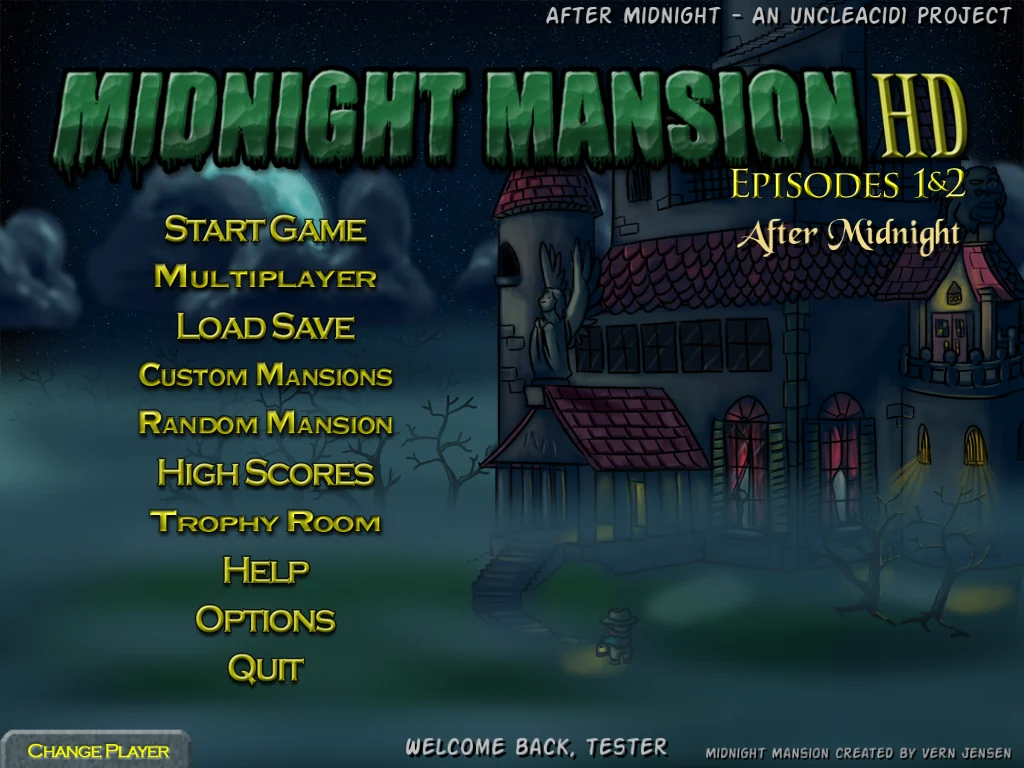
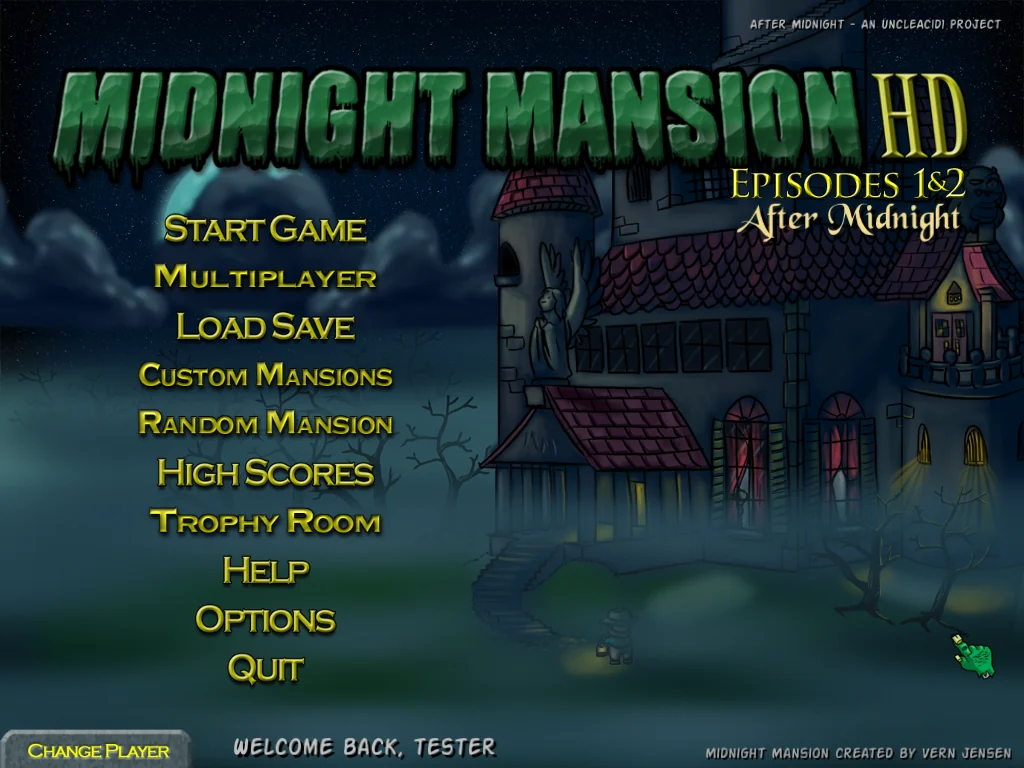
Title screen layout; birds in front of the moon
Title screen: "Welcome back" sits beside the Change Player tab (a long name shrinks rather
than run into the credit in the other corner); the After Midnight subtitle is closer under
Episodes 1&2; the corner credit is small and set in from the top right.

Multiplayer screen: the ravens fly in front of the moon (they were in the layer behind it),
and are never mistaken for the moon or the scenery when the screen is entered again.

README: the title screenshot and animation show the new layout.

Claude-Session: https://claude.ai/code/session_0121dJVHH3Rn4xL4fNu9r1rm

diff --git a/src/game/GameScreens.c b/src/game/GameScreens.c
@@ -668,11 +668,13 @@ void DrawTitleScreenBackgroundMM1(SWRect *rectP)
     SetBackgroundToDesignSize(spriteP);
 
     SetTextStyle(&style, "\012Action Man", 0, (short)(scale * 16.0f), 0);
+        // beside the Change Player tab (a long name gets smaller rather than run into the
+        // credit in the other corner)
     *rectP = gSpriteWorldP->workAreaRect;
     rectP->top = rectP->bottom - 30;
-    rectP->left = rectP->right - 515;
+    rectP->left += 290;
+    rectP->right -= (short)((rectP->right - rectP->left) * 0.42f);
     SWOffsetRect(rectP, 0, -16);
-    SWOffsetRect(rectP, -260, 0);      // where the registered build puts it
     if (gCurrentPlayerNameExists) {
         SWCopyPascalStringToCString((ConstStringPtr)gCurrentPlayerName, playerName);
         snprintf(message, sizeof(message), "Welcome back, %s", playerName);
@@ -682,11 +684,13 @@ void DrawTitleScreenBackgroundMM1(SWRect *rectP)
     }
 
         // (the original showed its version number here)
+        // small, in the top right corner, a little in from the edges
+    SetTextStyle(&style, "\012Action Man", 0, (short)(scale * 9.0f), 1);
     *rectP = gSpriteWorldP->workAreaRect;
+    rectP->right -= (short)(scale * 10.0f);
     rectP->left = rectP->right - (short)(scale * 300.0f);
-    rectP->right -= (short)(scale * 12.0f);
-    rectP->bottom = rectP->top + 30;
-    style.justification = 1;
+    rectP->top += (short)(scale * 8.0f);
+    rectP->bottom = rectP->top + (short)(scale * 10.0f);
     spriteP = MyDrawCTextJustified("After Midnight - An UncleAcid1 Project", &style, rectP, &gray);
     MakeTitleScreenSpriteFadeIn(spriteP);
 
@@ -705,7 +709,7 @@ static void TitleScreenEditionAndCredit(float scale)
     SetTextStyle(&style, "\015BlackChancery", 0, (short)(scale * 24.0f), 1);
     r.right = (short)(area.left + w * 0.942f);
     r.left = (short)(r.right - w * 0.5f);
-    r.bottom = (short)(area.top + h * 0.318f);
+    r.bottom = (short)(area.top + h * 0.298f);
     r.top = (short)(r.bottom - scale * 30.0f);
     spriteP = MyDrawCTextJustified("After Midnight", &style, &r, &gold);
     if (spriteP != NULL) {      // with the logo, under dialogs (the text layer is above them)

diff --git a/src/game/MMMultiplayerScreen.c b/src/game/MMMultiplayerScreen.c
@@ -236,6 +236,8 @@ static void AddScroller(SpritePtr spriteP, float factor)
 
 /// Everything that moves as the view rises: what scrolled in the opening moves the same way,
 /// except the moon and clouds, which stay in the sky.
+static void BirdMoveProc(SpritePtr spriteP);
+
 static void CollectScrollers(void)
 {
     SpriteLayerPtr layerP;
@@ -245,8 +247,8 @@ static void CollectScrollers(void)
     gMP.numScrollers = 0;
     for (layerP = gSpriteWorldP->headSpriteLayerP; layerP != NULL; layerP = SWGetNextSpriteLayer(gSpriteWorldP, layerP))
         for (spriteP = SWGetNextSprite(layerP, NULL); spriteP != NULL; spriteP = SWGetNextSprite(layerP, spriteP)) {
-            if (spriteP->miscFloat == 0.0f)
-                continue;
+            if (spriteP->miscFloat == 0.0f || (spriteP->spriteMoveProc == BirdMoveProc || spriteP->realSpriteMoveProc == BirdMoveProc))
+                continue;               // (a bird's miscFloat is its speed)
                 // the moon drifts up into the sky above the panels; the clouds settle along the
                 // bottom, under them
             if (layerP == gExitSpriteLayerP) {                  // clouds
@@ -419,7 +421,7 @@ static void SpawnBird(void)
     for (i = 0; i < flockSize; i++) {
         if (SWCloneSprite(masterP, &birdP, NULL, 0) != kNoError || birdP == NULL)
             return;
-        SWAddSprite(gRearBackgroundPictureSpriteLayerP, birdP);
+        SWAddSprite(gBottomSpriteLayerP, birdP);      // (with the moon, added after it: in front of it)
         SWSetSpriteScaledFactor(birdP, masterP->drawData->scaledWidthFactor * scale,
                                 masterP->drawData->scaledHeightFactor * scale);
             // far away against the night: dark blue, a little see-through
